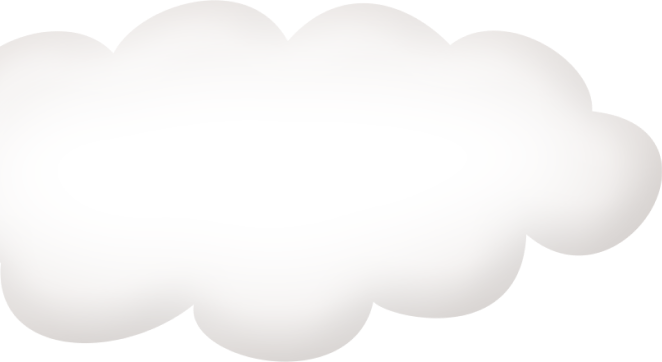
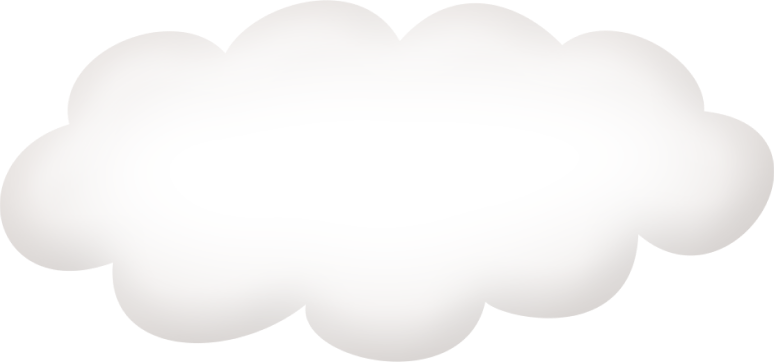
chore: add complete cloud image

diff --git a/TP4/styles/lastSection.css b/TP4/styles/lastSection.css
@@ -60,7 +60,7 @@
 }
 
 .section-3 .cloud-right-2 {
-    background-image: url("../assets/images/background/lastSection/cloud3.png");
+    background-image: url("../assets/images/background/lastSection/cloud1.png");
     width: 315px;
     height: 181px;
     z-index: 2;
